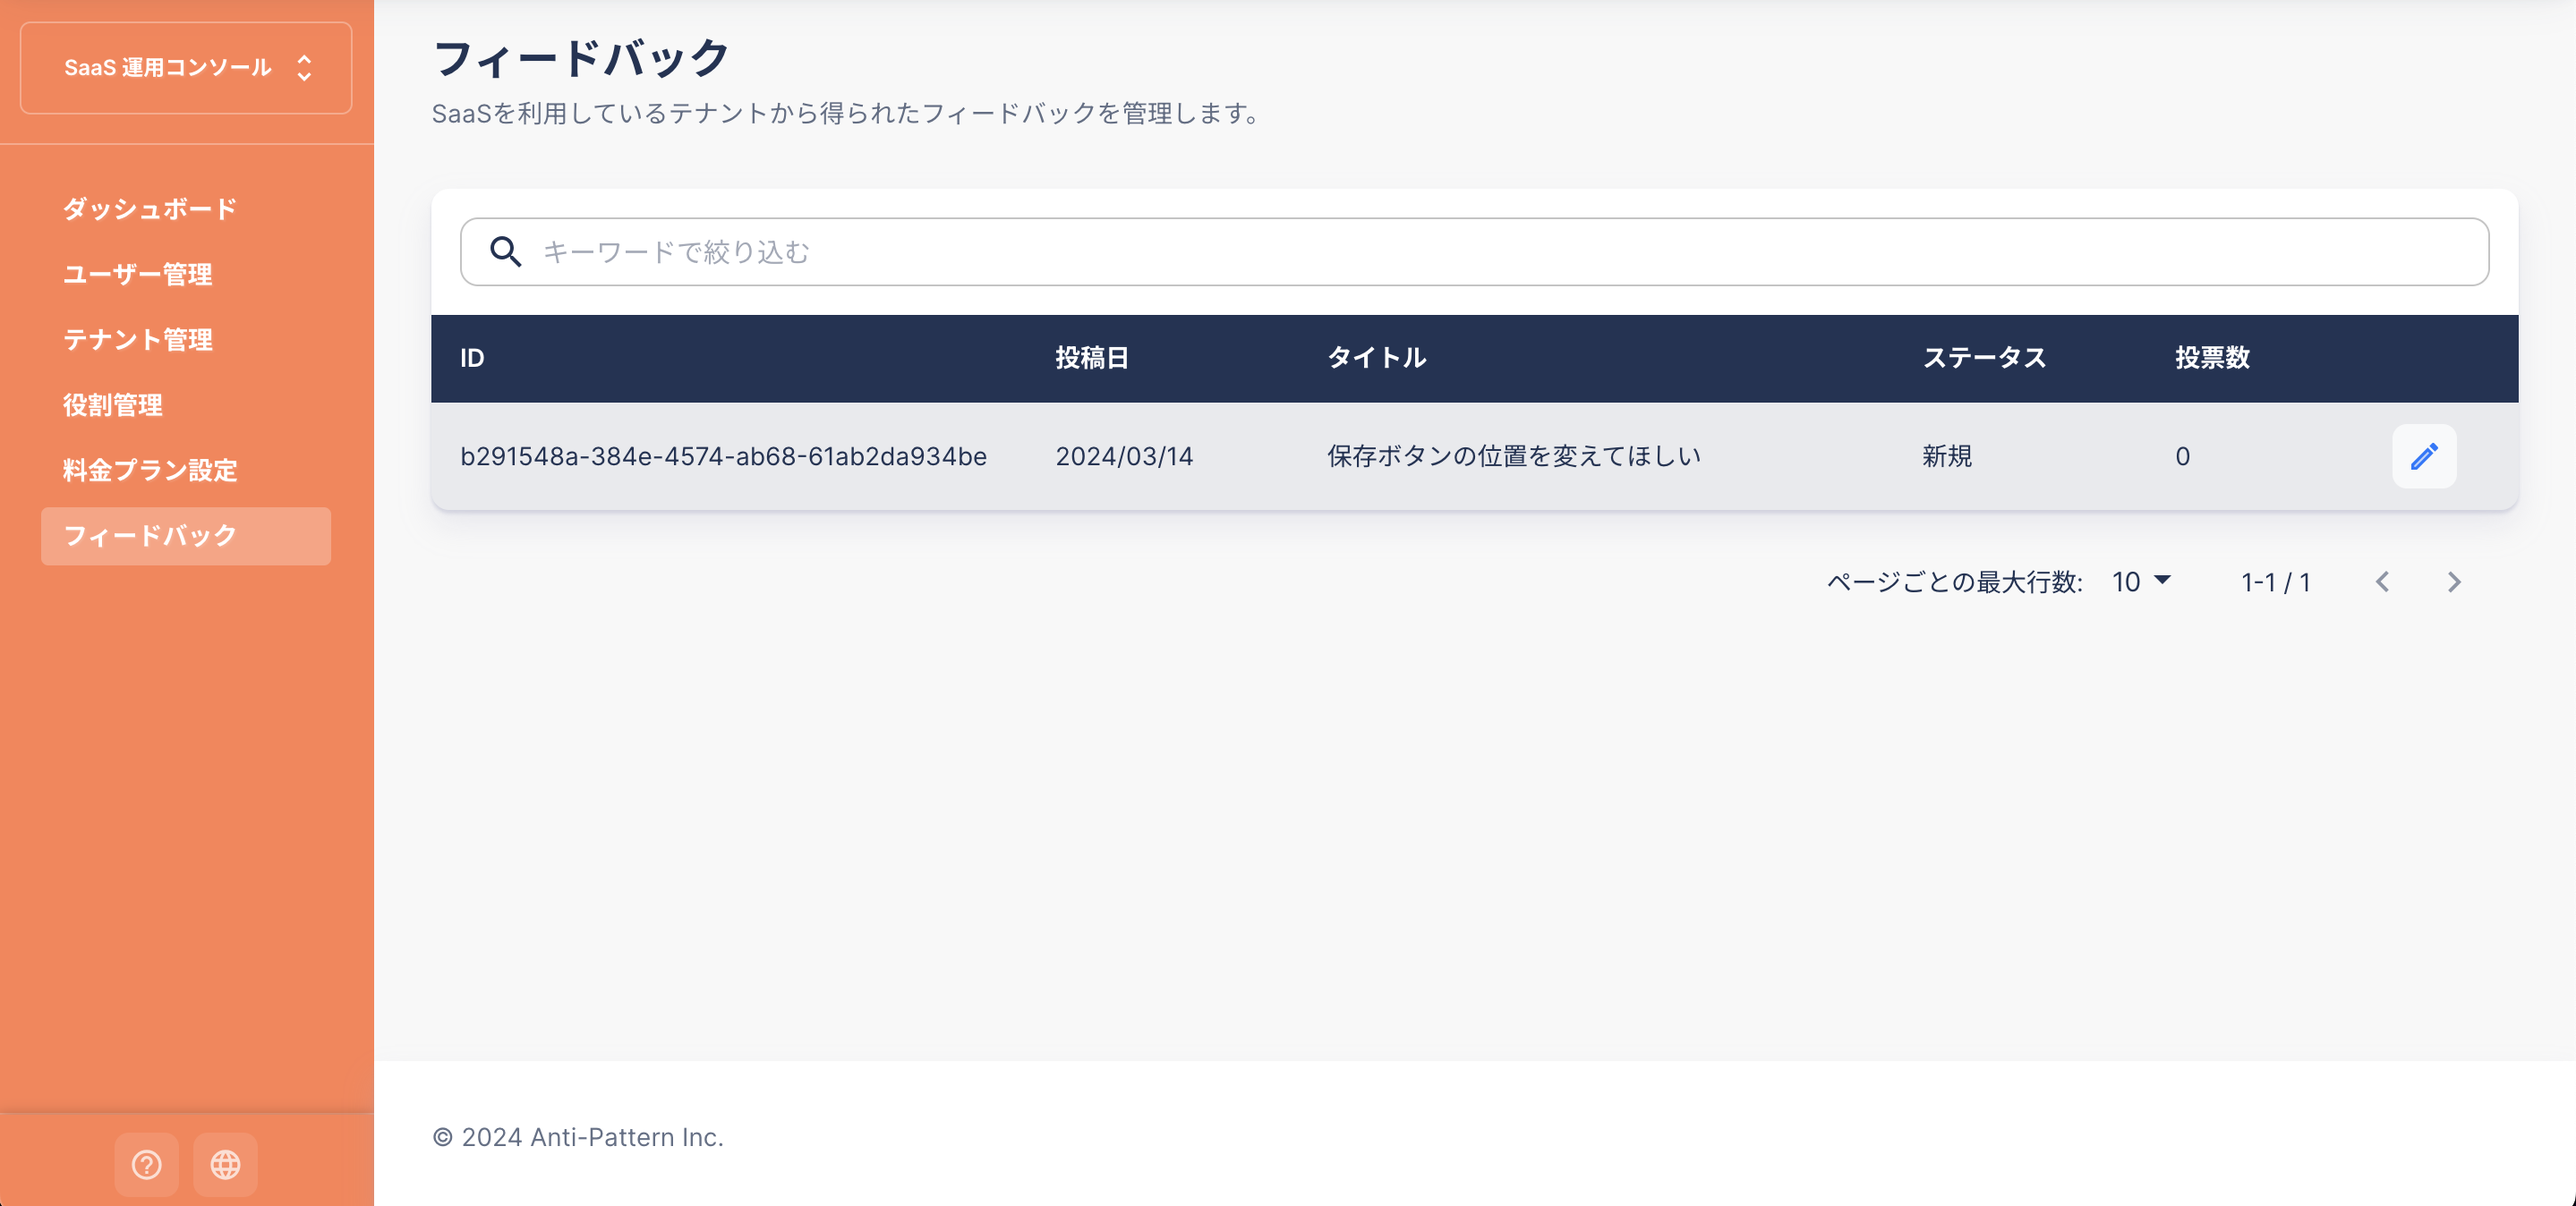
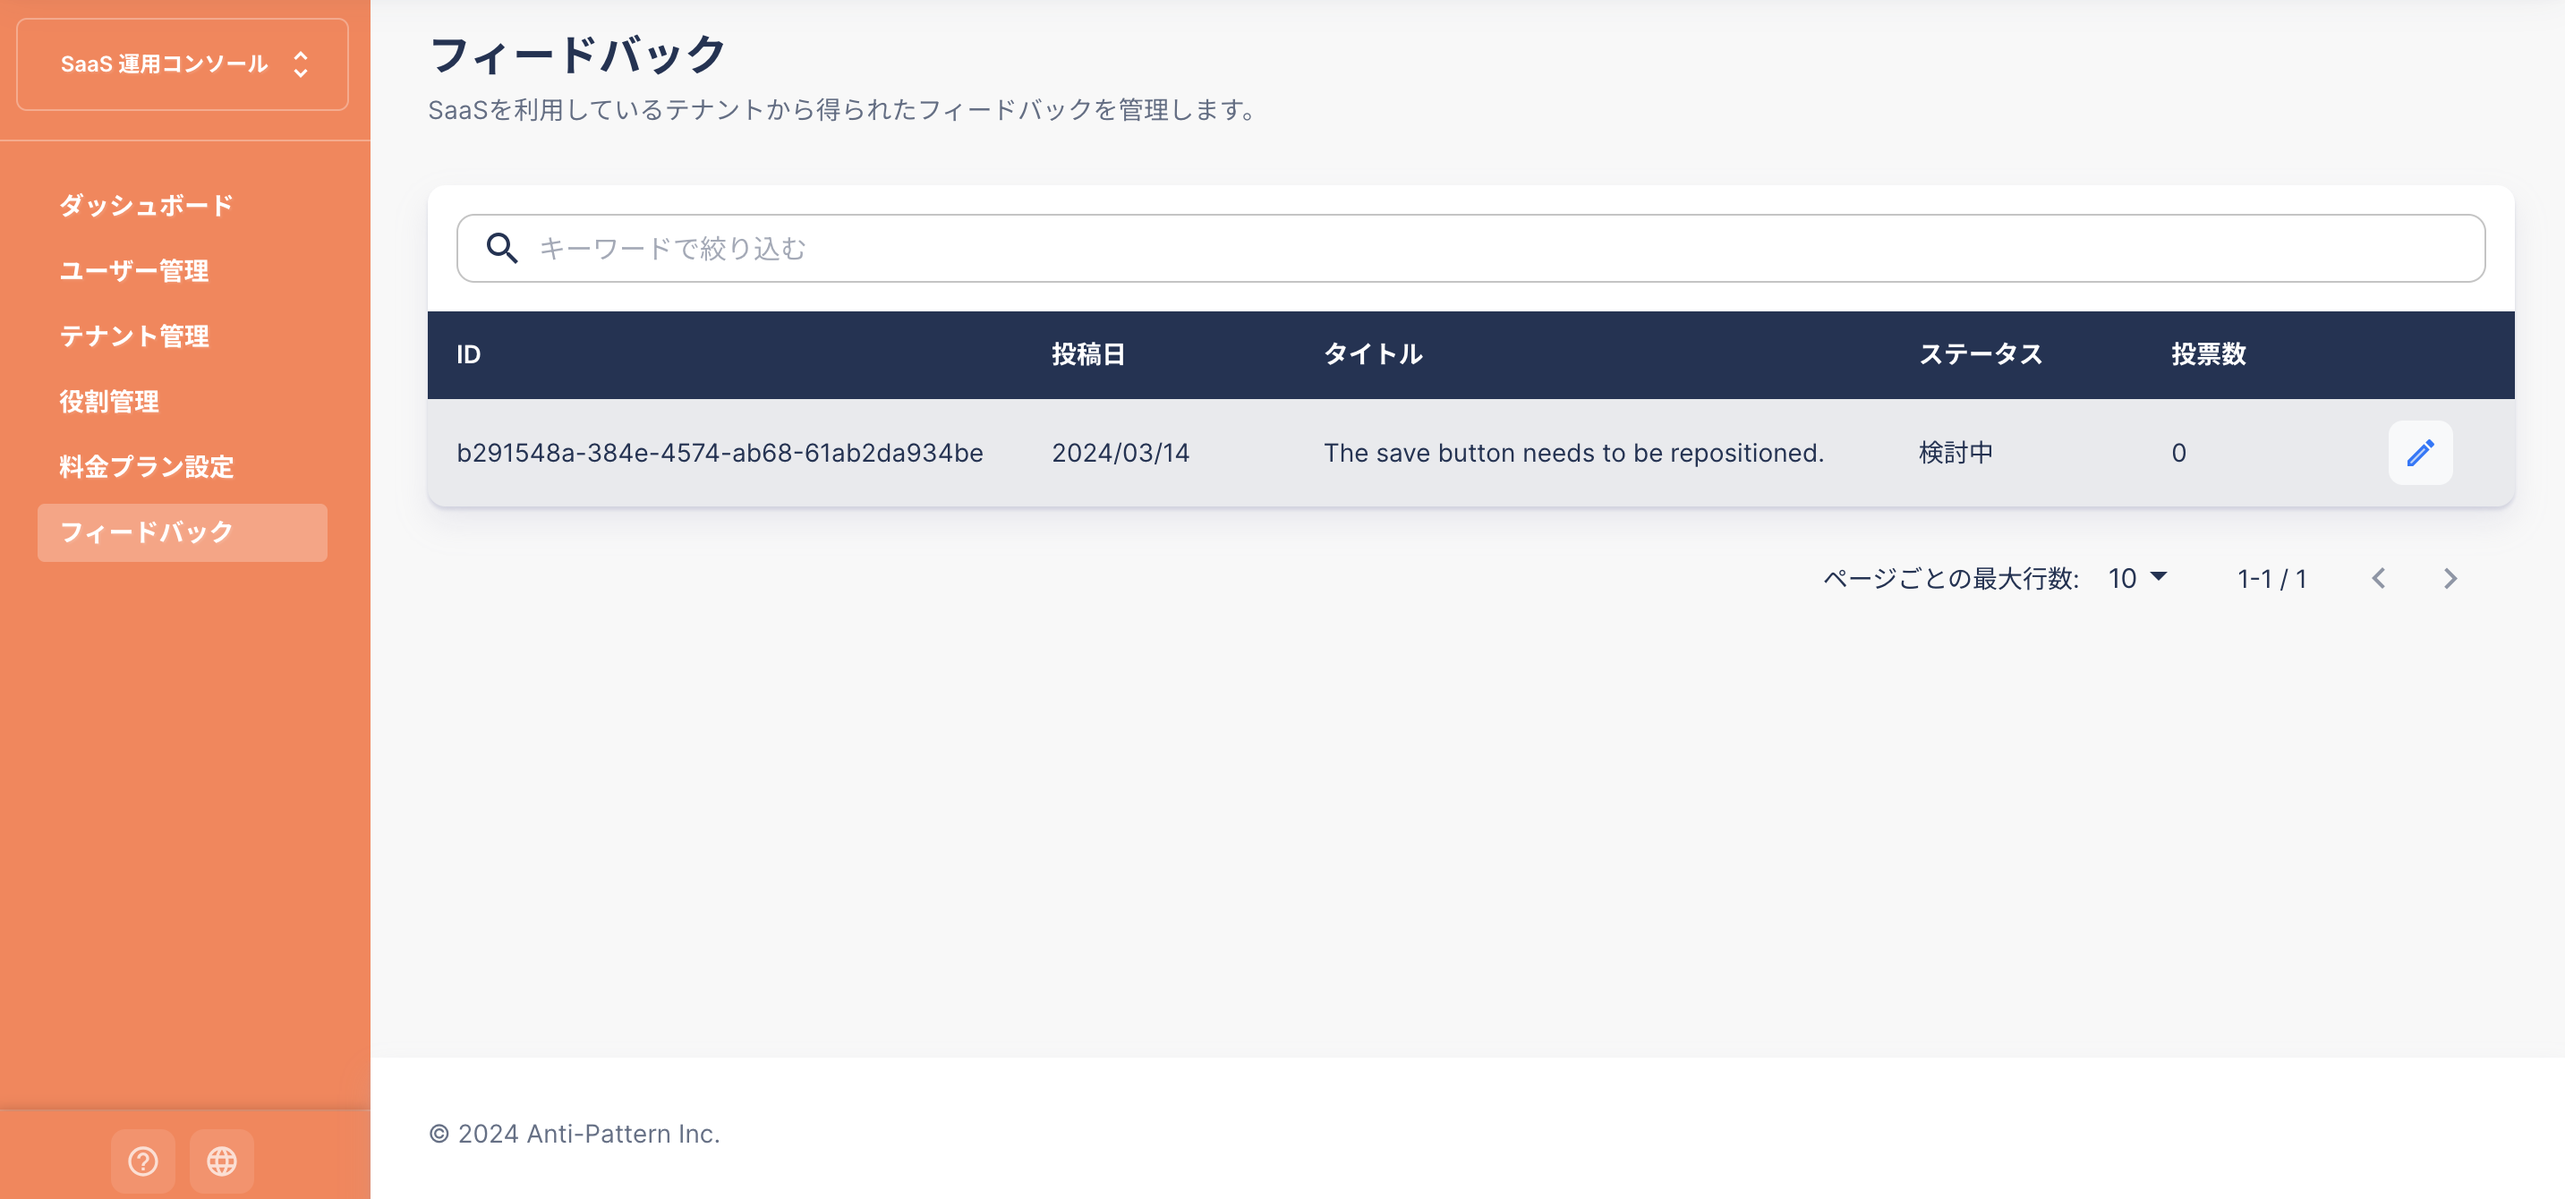
translate user feedback

diff --git a/docs/saas-operation-console/user-feedback.md b/docs/saas-operation-console/user-feedback.md
@@ -1,5 +1,5 @@
 ---
-title: "ユーザーフィードバック"
+title: "User Feedback"
 slug: "user-feedback"
 excerpt: ""
 hidden: false
@@ -7,32 +7,32 @@ createdAt: "Tue Mar 12 2024 00:47:10 GMT+0000 (Coordinated Universal Time)"
 updatedAt: "Tue Mar 12 2024 00:47:10 GMT+0000 (Coordinated Universal Time)"
 ---
 
-## 概要説明
-ユーザーからフィードバックを得るための機能です。  
-実際にSaaSを利用しているユーザーから意見を収集することで、サービスの改善に役立てることができます。  
+## Overview
+This feature allows feedback collection from users.  
+By collecting opinions from users who are actually using the SaaS, it can be used to improve the service.
 
-## 使用方法
-この機能を使うためには、[Communication API](/docs/reference/communication-api)を使用してフィードバックを操作する機能をSaaSに実装する必要があります。
+## Usage
+In order to use this feature, you need to implement a feedback manipulation function into your SaaS using the [Communication API](/docs/reference/communication-api).
 
-例えば以下のようなAPIを使用します。
+For example, you would use APIs such as:
 
 * [CreateFeedback](/docs/reference/communication-api#tag/feedback/operation/CreateFeedback)
-  * フィードバックを作成できます
+  * Creates feedback
 * [GetFeedbacks](/docs/reference/communication-api#tag/feedback/operation/GetFeedbacks)
-  * 作成されたフィードバックを取得します
+  * Retrieves created feedback
 * [CreateVoteUser](/docs/reference/communication-api#tag/feedback/operation/CreateVoteUser)
-  * フィードバックに対して、他のユーザーが投票することができます
+  * Allows other users to vote on feedback
 
-これらのAPIを用いてフィードバック機能を実装します。
+You would implement the feedback feature using these APIs.
 
-フィードバックは以下のステータスを持っています。  
-0: 新規  
-1: 検討中  
-2: 実装中  
-3: 実装済み  
+Feedback holds the following statuses:  
+0: New  
+1: Under consideration  
+2: In progress  
+3: Implemented  
 
-得られたフィードバックはSaaS運用コンソールで確認することができます。
-![feedback-list](/ja/img/saas-operation-console/user-feedback/feedback-list.png)
+The collected feedback can be checked in the SaaS operation console.
+![feedback-list](/img/saas-operation-console/user-feedback/feedback-list.png)
 
-ステータスの変更やコメントの追加ができます。
-![feedback-edit](/ja/img/saas-operation-console/user-feedback/feedback-edit.png)
+You can change the status and add comments.
+![feedback-edit](/img/saas-operation-console/user-feedback/feedback-edit.png)
